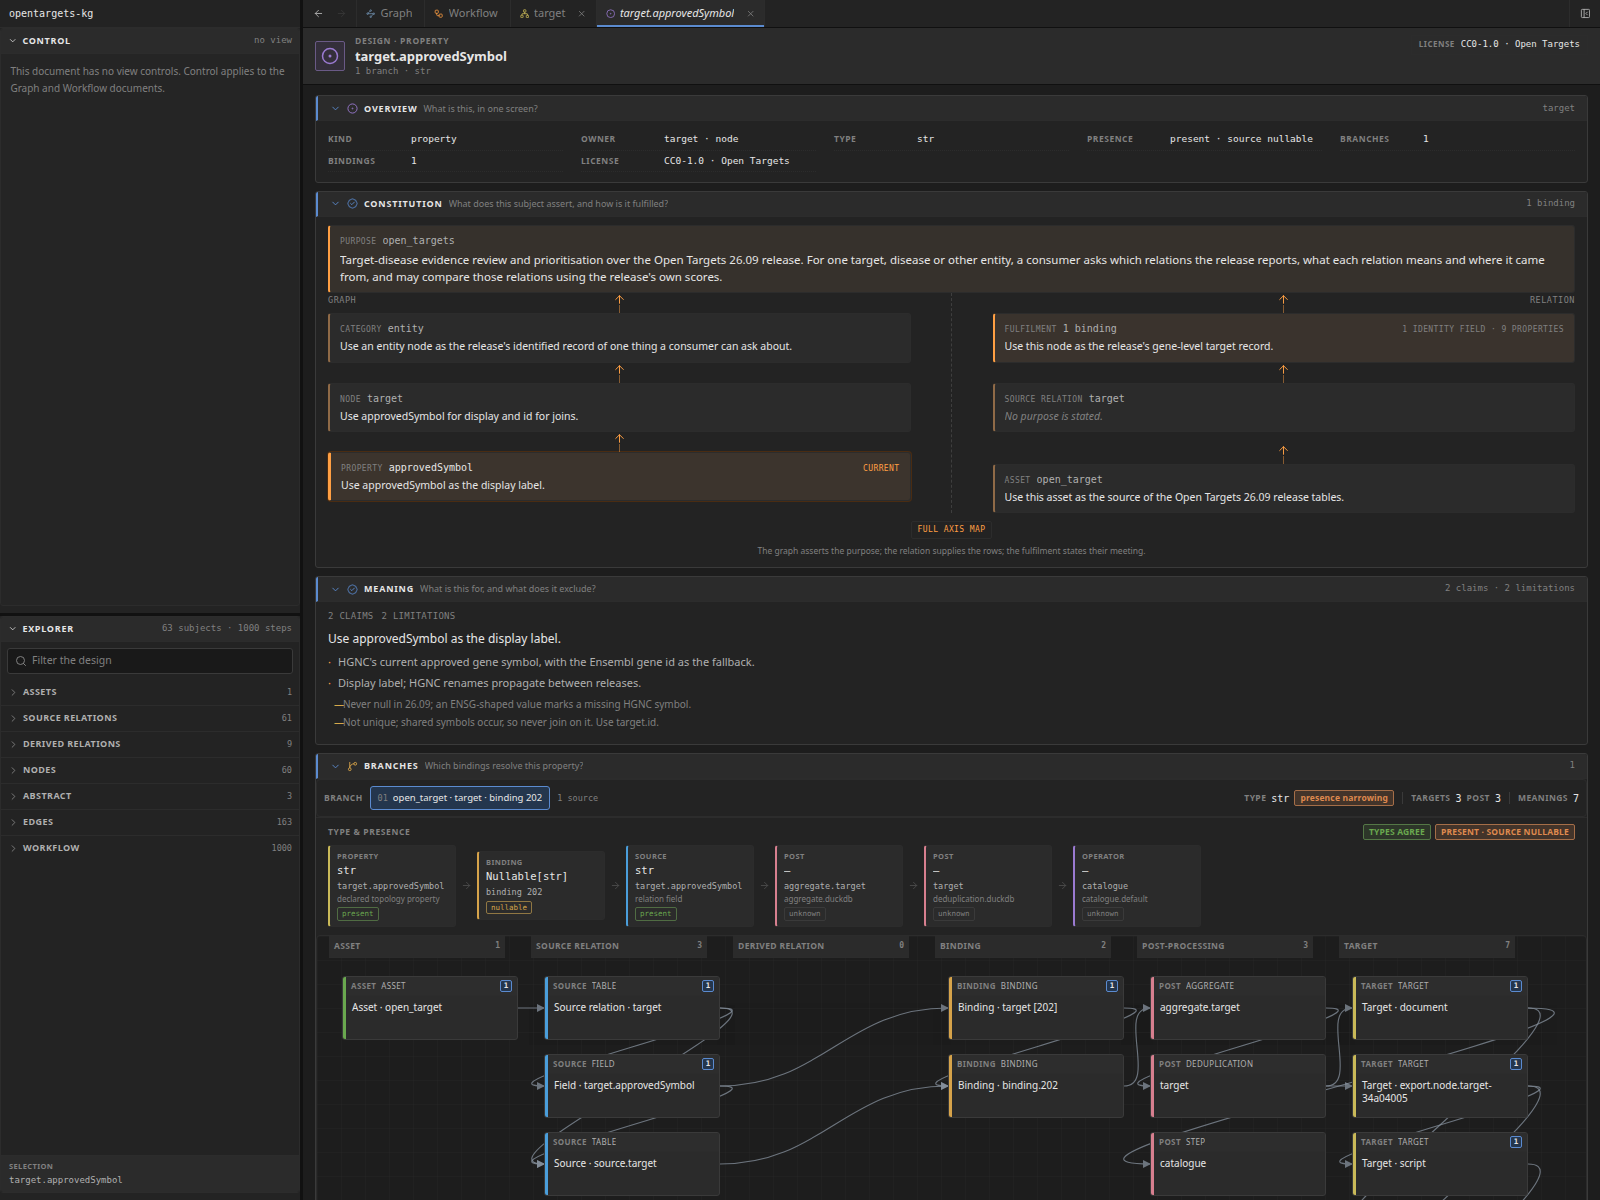
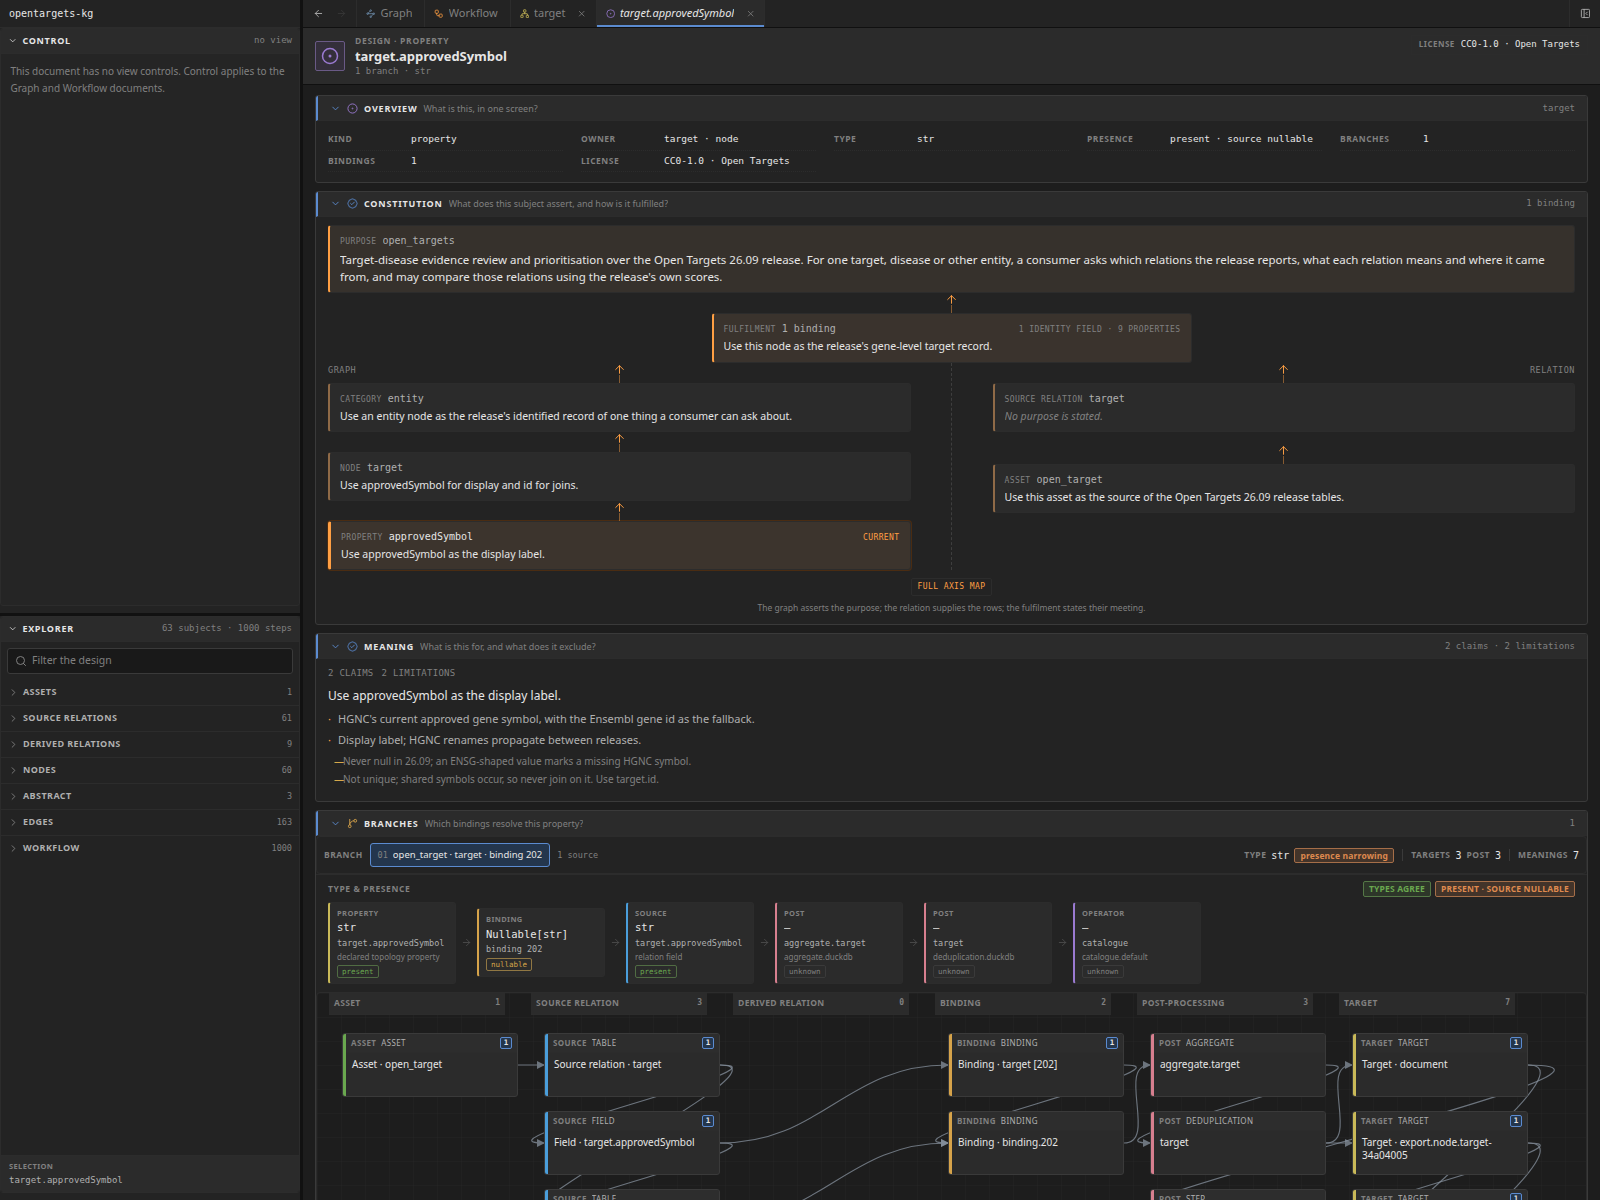
Centre fulfilment above the two axes

diff --git a/viewer/shared/design/Constitution.tsx b/viewer/shared/design/Constitution.tsx
@@ -187,11 +187,10 @@ function Branch({
  * The subject as a constitution: one purpose across the top, the graph and
  * relation axes below it, and the binding as the relation side's fulfilment.
  *
- * The graph chain reads upward to the purpose. On the relation side the
- * fulfilment box sits directly under the purpose, the relation under it, and
- * the relation's provenance branches below the relation. The dashed centre is
- * the axis divide, not a third axis. Hovering or focusing a box reveals its
- * full meaning in a portal, because the band clips overflow.
+ * The graph and relation chains read upward toward the purpose. The fulfilment
+ * box is centred in the gap above both axes; the dashed centre starts below it
+ * and separates the axes without reaching the purpose. Hovering or focusing a
+ * box reveals its full meaning in a portal, because the band clips overflow.
  */
 export function Constitution({
   model,
@@ -316,6 +315,28 @@ export function Constitution({
         />
       </div>
 
+      <div className={styles.constitutionFulfilment}>
+        <Arrow />
+        <Box
+          node={
+            bindingNode ?? {
+              kind: "binding",
+              name: "no binding",
+              label: "Fulfilment",
+              meaning: { claims: [], limitations: [], frames: [] },
+            }
+          }
+          fulfilment
+          hoverable={bindingHoverable}
+          text={bindingText}
+          hovered={hoveredKey === bindingKey}
+          hoverCardId={hoverCardId}
+          onHover={openHover}
+          onLeave={scheduleClose}
+          onOpen={onOpen}
+        />
+      </div>
+
       <div className={styles.constitutionBranches}>
         <Branch
           side="graph"
@@ -336,25 +357,6 @@ export function Constitution({
         <div className={styles.constitutionBranch} data-side="relation">
           <span className={styles.constitutionBranchLabel}>Relation</span>
           <div className={styles.constitutionStack}>
-            <Arrow />
-            <Box
-              node={
-                bindingNode ?? {
-                  kind: "binding",
-                  name: "no binding",
-                  label: "Fulfilment",
-                  meaning: { claims: [], limitations: [], frames: [] },
-                }
-              }
-              fulfilment
-              hoverable={bindingHoverable}
-              text={bindingText}
-              hovered={hoveredKey === bindingKey}
-              hoverCardId={hoverCardId}
-              onHover={openHover}
-              onLeave={scheduleClose}
-              onOpen={onOpen}
-            />
             {primaryRelation ? (
               <>
                 <Arrow />
@@ -367,7 +369,9 @@ export function Constitution({
                   onOpen={onOpen}
                 />
               </>
-            ) : null}
+            ) : (
+              <p className={styles.constitutionEmpty}>No relation is shown.</p>
+            )}
             {childRelations.length ? (
               <div
                 className={styles.constitutionChildren}

diff --git a/viewer/shared/design/design.module.css b/viewer/shared/design/design.module.css
@@ -400,6 +400,17 @@ button.constitutionName:focus-visible {
   font-style: italic;
 }
 
+.constitutionFulfilment {
+  display: flex;
+  align-items: center;
+  flex-direction: column;
+  justify-content: center;
+}
+
+.constitutionFulfilment .constitutionBox {
+  width: min(480px, 44%);
+}
+
 .constitutionBranches {
   position: relative;
   display: grid;
@@ -529,6 +540,14 @@ button.constitutionName:focus-visible {
   }
 
   .constitutionSeam {
+    display: none;
+  }
+
+  .constitutionFulfilment .constitutionBox {
+    width: 100%;
+  }
+
+  .constitutionStack > .constitutionArrow:first-child {
     display: none;
   }
 

diff --git a/viewer/shared/design/constitution.ts b/viewer/shared/design/constitution.ts
@@ -4,9 +4,9 @@
  *
  * The purpose is the root. The graph branch holds the record-axis purposes
  * that narrow it; the relation branch holds the provenance that supplies it,
- * from the relation down to the asset. The fulfilment box sits between the
- * purpose and the relation tree. A level keeps its own meaning, so the two
- * branches show derivation and supply, never inherited text.
+ * from the relation down to the asset. The fulfilment box is centred in the
+ * gap above both axes. A level keeps its own meaning, so the two branches show
+ * derivation and supply, never inherited text.
  */
 
 import {

diff --git a/viewer/HIERARCHY.md b/viewer/HIERARCHY.md
@@ -55,9 +55,9 @@ position.
 | **Graph** (pinned) | shared visualisation frame with a header (view name, visible node/link counts, **Inspect** toggle) above a D3 force canvas; bottom-left zoom/Fit navigation; floating Inspector shows graph purpose/overview when nothing is selected, or the selected entity's identity, properties and meaning; clicking empty space deselects |
 | **Workflow** (pinned) | compositor-style component graph in the same visualisation frame; the header names the workflow or focused component, states component or step counts and carries step-group actions; selecting a component and using **Open step group** drills into its step-level flow graph with one block per dependency layer, a large layer wrapping into aligned sub-columns, and boundary components aligned to the steps they feed; selecting a component, step or boundary node highlights its incident links and dims the other nodes in the same graph view, and entering another step group requires **Open step group**; drag to pan, wheel to zoom, Fit in the navigation cluster resets; Back returns to components; filters from Control narrow the step graph |
 | **Step** | one workflow step's instruction, payload, openings, connections and blueprint bindings on the same detail surface as node and subject documents; opened from the workflow section of Explorer |
-| **Source relation** | a source relation's identity, contract, owning asset, columns, indented expression outline from the relation back through its fields to the asset, its Constitution (purpose root, bound records, fulfilment box, relation and asset branches) and its full meaning in the Meaning band; the effective licence is in the banner |
-| **Derived relation** | a derived relation's identity, contract, columns, row source, indented expression outline from each column back through its operators and row source to the asset, its Constitution (purpose root, bound records, fulfilment box, relation and asset branches) and its full meaning in the Meaning band; the effective licence is in the banner |
-| **Subject** (node, edge, property, asset, abstract) | provenance assets, source relations and derived relations first for node, edge and property; asset and relation references are navigable to their own documents; the effective licence is in the banner; a pannable, zoomable narrowed workflow graph and an indented expression outline of the actual field and operator chain from the current item back to its provenance assets follows, then the Constitution tree (wide purpose root, graph branch from category to component to property, relation branch with the fulfilment box above the relation and its provenance branches, dashed axis divide and optional full axis map; hovering a box shows its full meaning, and a label opens that level), the current subject's full Meaning, properties and, for a property, provenance lanes and type/presence |
+| **Source relation** | a source relation's identity, contract, owning asset, columns, indented expression outline from the relation back through its fields to the asset, its Constitution (purpose root, bound records, fulfilment box above the axes, relation and asset branches) and its full meaning in the Meaning band; the effective licence is in the banner |
+| **Derived relation** | a derived relation's identity, contract, columns, row source, indented expression outline from each column back through its operators and row source to the asset, its Constitution (purpose root, bound records, fulfilment box above the axes, relation and asset branches) and its full meaning in the Meaning band; the effective licence is in the banner |
+| **Subject** (node, edge, property, asset, abstract) | provenance assets, source relations and derived relations first for node, edge and property; asset and relation references are navigable to their own documents; the effective licence is in the banner; a pannable, zoomable narrowed workflow graph and an indented expression outline of the actual field and operator chain from the current item back to its provenance assets follows, then the Constitution tree (wide purpose root, graph branch from category to component to property, fulfilment box centred in the gap above the two axes, relation branch with its provenance branches below, dashed axis divide starting under fulfilment and optional full axis map; hovering a box shows its full meaning, and a label opens that level), the current subject's full Meaning, properties and, for a property, provenance lanes and type/presence |
 
 A node or property click in the canvas only changes transient inspection.
 Single-clicking an Explorer row opens or reuses one preview tab; double-clicking

diff --git a/viewer/DETAIL_CONTENT.md b/viewer/DETAIL_CONTENT.md
@@ -16,7 +16,7 @@ includes by their immediate importance to a reader; it never renames one. A
 | Order | Section | Question it answers | Content |
 | --- | --- | --- | --- |
 | 1 | **Overview** | What is this, in one screen? | One fact grid: kind, labels, identity, owner or endpoints, counts and licence. |
-| 2 | **Constitution** | What does this subject assert, and how is it fulfilled? | One wide purpose at the top; the Graph chain on the left and the Relation chain on the right. The Fulfilment box sits directly under the purpose, the relation under it, and the relation's provenance branches below. Arrows point up to the level each box is accountable to. The dashed centre is the axis divide, not a binding. Each box clamps its purpose to two lines; hovering or focusing it reveals the full meaning, and a box label opens its document. The Fulfilment box states the binding count; identity fields and coverage appear when the column has room and always in the full axis map. A grouped branch shows the first item and `+N`; one control expands the full axis map. |
+| 2 | **Constitution** | What does this subject assert, and how is it fulfilled? | One wide purpose at the top; the Fulfilment box centred in the gap above the two axes; the Graph chain on the left and the Relation chain on the right. The dashed centre starts below Fulfilment and does not reach the purpose. Arrows point up to the level each box is accountable to; the relation's provenance branches sit below it. Each box clamps its purpose to two lines; hovering or focusing it reveals the full meaning, and a box label opens its document. The Fulfilment box states the binding count; identity fields and coverage appear when the box has room and always in the full axis map. A grouped branch shows the first item and `+N`; one control expands the full axis map. |
 | 3 | **Meaning** | What is this for, and what does it exclude? | The full meaning of the current subject: purpose, the limitations it owns, then contextless claims; compact counts in the header. |
 | 4 | **Sources** | Where does this value come from? | Assets, source relations and derived relations, as navigable references with counts. |
 | 5 | **Build steps** | How is this built? | The narrowed workflow graph of the steps that produce the subject. |
@@ -80,15 +80,16 @@ to.
 - **Graph** is the record axis: category → component → property, ordered from
   the broadest level to the current subject. Each box states its own purpose;
   the current box is tinted and marked.
-- **Relation** is the relation axis. The Fulfilment box sits directly under the
-  purpose; the relation sits under the Fulfilment box; the relation's
-  provenance branches sit under the relation. A derived relation splits into
-  its scanned source relation and its asset; a source relation shows its asset.
-  The current declaration is marked when the subject is a relation or asset.
-- **Fulfilment** is a box on the relation side, not the dashed centre. It
-  states the binding count; identity fields and coverage appear when the
-  column has room and always in the full axis map. The dashed centre is the
-  axis divide. The graph asserts, the relation supplies, and the
+- **Relation** is the relation axis. The relation sits below the Fulfilment
+  box; the relation's provenance branches sit under it. A derived relation
+  splits into its scanned source relation and its asset; a source relation
+  shows its asset. The current declaration is marked when the subject is a
+  relation or asset.
+- **Fulfilment** is the centred box in the gap above the two axes. It is not
+  part of either axis: the dashed centre starts below it, so it separates the
+  axes without reaching the purpose. It states the binding count; identity
+  fields and coverage appear when the box has room and always in the full axis
+  map. The graph asserts, the relation supplies, and the
   Fulfilment box states their meeting.
 - A branch with many records, relations or assets shows the first item and
   `+N`, so the card stays compact. **Full axis map** expands the same data into

diff --git a/viewer/DESIGN_LANGUAGE.md b/viewer/DESIGN_LANGUAGE.md
@@ -82,11 +82,11 @@ A kind includes or omits a section; it never renames one for itself.
   counts and licence.
 - **Constitution** is the two-axis tree. The wide purpose is the root; the
   Graph branch is the record axis, ordered from category to component to
-  property; the Relation branch is the relation axis. The Fulfilment box sits
-  directly under the purpose, the relation under it, and the relation's
-  provenance branches below. The dashed centre is the axis divide. Each box
-  states only its own purpose and clamps; arrows point up to the level it is
-  accountable to. Hovering or focusing a box reveals its full meaning in a
+  property; the Relation branch is the relation axis. The Fulfilment box is
+  centred in the gap above both axes; the dashed centre starts below it and
+  never reaches the purpose. The relation axis carries its provenance branches
+  below its relation. Each box states only its own purpose and clamps; arrows
+  point up to the level it is accountable to. Hovering or focusing a box reveals its full meaning in a
   portal card; a box label opens that level's document. A grouped branch shows
   the first item and `+N`; **Full axis map** expands the same data into the
   three-column records, fulfilment and relations view.

diff --git a/AGENTS.md b/AGENTS.md
@@ -155,9 +155,9 @@ missing, not the code.
   question; every further layer is revealed by a named control, and raw JSON is
   not a default surface.
 - A subject that carries purpose, fulfilment and provenance is one constitution:
-  purpose at the root, the graph and relation axes below it, and fulfilment as
-  the relation side's box above the relation tree. The axes are parallel lanes,
-  not a Cartesian plot; only fulfilment states their meeting.
+  purpose at the root, fulfilment centred in the gap above the axes, and the
+  graph and relation axes below with the divider starting under fulfilment. The
+  axes are parallel lanes, not a Cartesian plot; fulfilment is neither axis.
 - A repeated item renders its units compactly. A heading is structural, not per
   unit: a table cell or list row does not repeat the section chrome.
 - Present the design before an author workflow: a canonical view carries the
